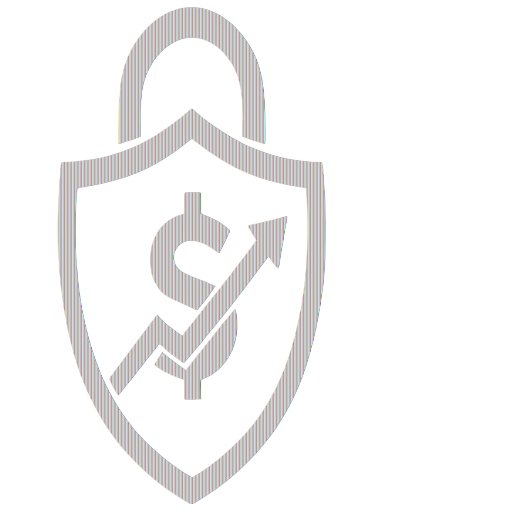
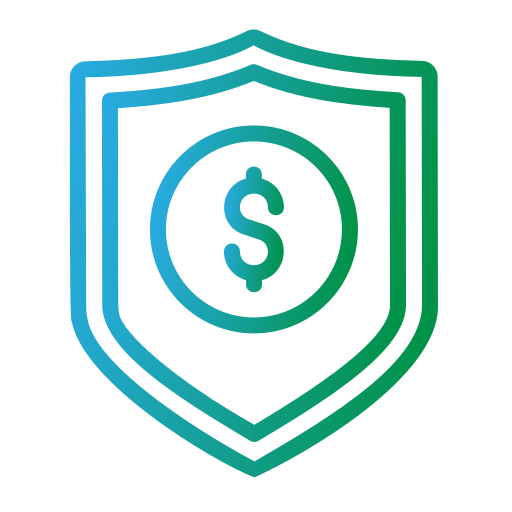
a

diff --git a/index.html b/index.html
@@ -445,11 +445,7 @@
         </div>
 
         <!-- Budget Presets -->
-        <div class="flex items-center gap-1.5 mb-3 flex-wrap">
-          <button data-preset="50-30-20" class="chip text-[10px] font-semibold px-2.5 py-1.5 rounded-full border">50/30/20</button>
-          <button data-preset="70-20-10" class="chip text-[10px] font-semibold px-2.5 py-1.5 rounded-full border">70/20/10</button>
-          <button data-preset="60-30-10" class="chip text-[10px] font-semibold px-2.5 py-1.5 rounded-full border">60/30/10</button>
-          <button data-preset="80-10-10" class="chip text-[10px] font-semibold px-2.5 py-1.5 rounded-full border">80/10/10</button>
+        <div class="flex items-center gap-1.5 mb-3 flex-wrap" id="presetChips">
           <span class="text-[10px] text-gray-400">Presets</span>
         </div>
 
@@ -1071,6 +1067,7 @@
   const STORAGE_KEY = 'nerovault_data';
   const THEME_KEY = 'nerovault_theme';
   const ROLLOVER_KEY = 'nerovault_rollover';
+  const PRESETS_KEY = 'nerovault_presets';
   const APP_VERSION = '1.0.2';
   const isoToday = () => new Date().toISOString().split('T')[0];
   const uid = () => (crypto.randomUUID ? crypto.randomUUID() : 'id-' + Date.now() + '-' + Math.random().toString(16).slice(2));
@@ -1130,6 +1127,41 @@
     '#9C6B4A', // brown
     '#5B6472', // slate
   ];
+
+  // ---- budget presets ----
+  // A preset splits the budget across the four default category IDs. Users can add their
+  // own presets (saved in localStorage) on top of this curated built-in set. Each built-in
+  // `preset` is normalized to 100 before use; custom saves may exceed/under 100 and are
+  // rescaled by normalizeCategories anyway, so the editor just needs them roughly sensible.
+  const BUILTIN_PRESETS = [
+    { id:'50-30-20', name:'50/30/20', family:50, essential:30, lifestyle:20, savings:0, builtin:true },
+    { id:'70-20-10', name:'70/20/10', family:70, essential:20, lifestyle:10, savings:0, builtin:true },
+    { id:'60-30-10', name:'60/30/10', family:60, essential:30, lifestyle:10, savings:0, builtin:true },
+    { id:'80-10-10', name:'80/10/10', family:80, essential:10, lifestyle:10, savings:0, builtin:true },
+    { id:'40-30-20-10', name:'40/30/20/10', family:40, essential:30, lifestyle:20, savings:10, builtin:true },
+    { id:'50-20-20-10', name:'50/20/20/10', family:50, essential:20, lifestyle:20, savings:10, builtin:true },
+    { id:'60-10-10-20', name:'60/10/10/20', family:60, essential:10, lifestyle:10, savings:20, builtin:true },
+    { id:'80-10-0-10', name:'80/10/0/10', family:80, essential:10, lifestyle:0, savings:10, builtin:true },
+  ];
+
+  // localStorage holds only the USER's custom presets; built-ins are always re-seeded from
+  // BUILTIN_PRESETS so we can ship new built-ins later without wiping user additions.
+  function loadCustomPresets(){
+    try{
+      const raw = localStorage.getItem(PRESETS_KEY);
+      if(!raw) return [];
+      const arr = JSON.parse(raw);
+      return Array.isArray(arr) ? arr.filter(p => p && p.id && !p.builtin) : [];
+    }catch(e){ return []; }
+  }
+  function saveCustomPresets(list){
+    try{ localStorage.setItem(PRESETS_KEY, JSON.stringify(list)); }catch(e){}
+  }
+  let customPresets = loadCustomPresets();
+  function allPresets(){ return BUILTIN_PRESETS.concat(customPresets); }
+  function presetValues(p){
+    return { family: Number(p.family) || 0, essential: Number(p.essential) || 0, lifestyle: Number(p.lifestyle) || 0, savings: Number(p.savings) || 0 };
+  }
 
   function round1(n){ return Math.round(n * 10) / 10; }
   function formatPercent(n){